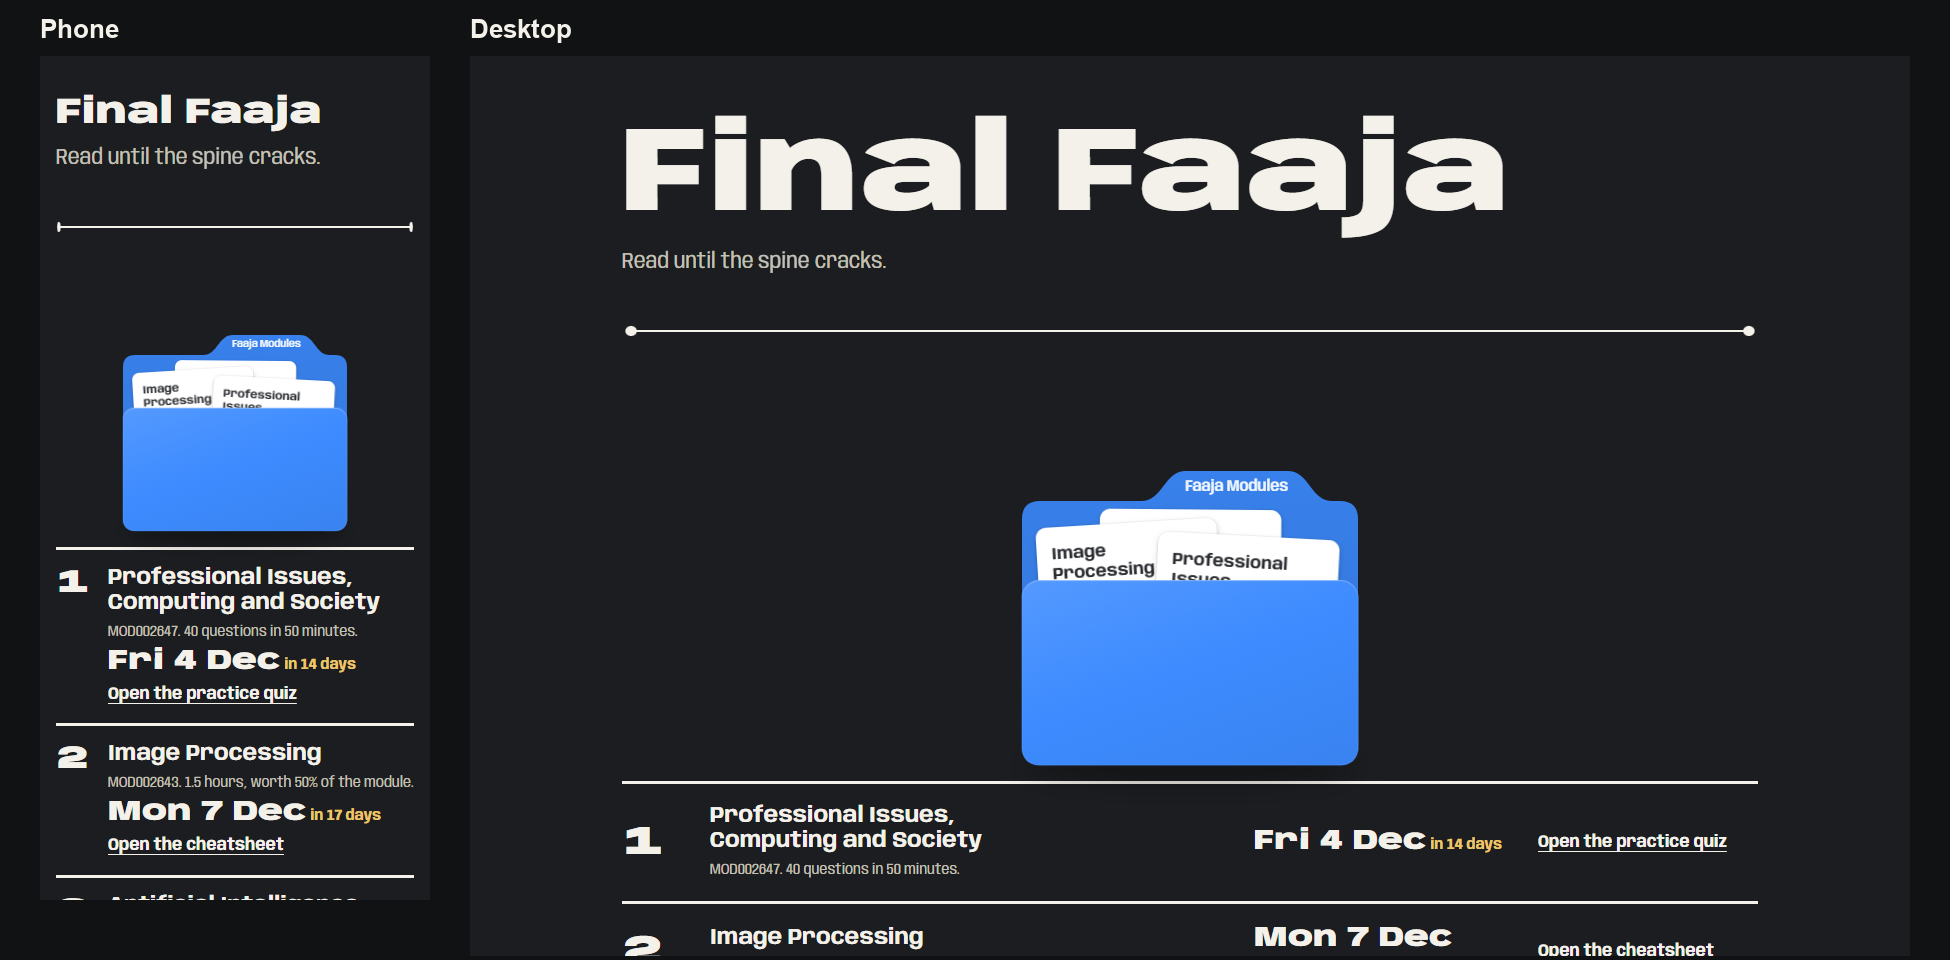
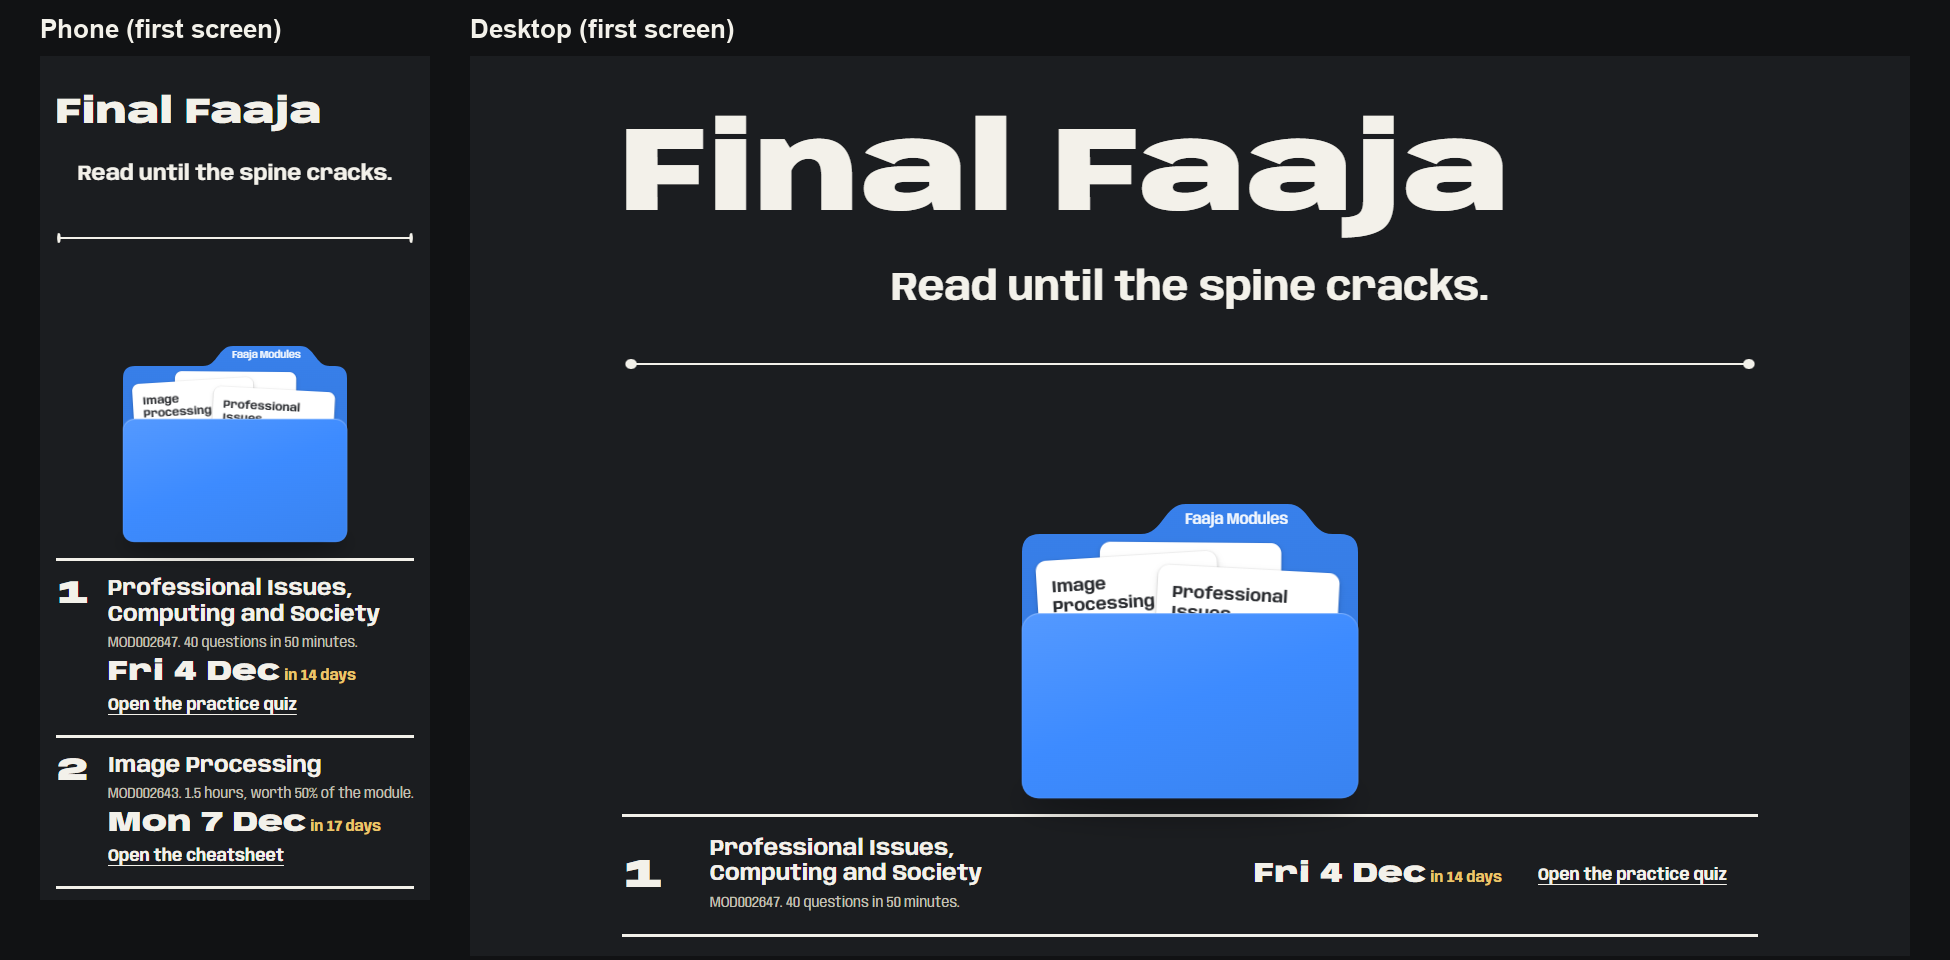
Tagline centred and larger; the whole line jitters in short bursts

diff --git a/index.html b/index.html
@@ -78,9 +78,9 @@ h2 { margin: 0; font-size: var(--t-l); line-height: 1.15; font-weight: 700; font
 footer { margin-top: 40px; font-size: var(--t-s); color: var(--ink-2); }
 footer a { color: var(--ink); text-underline-offset: 3px; }
 footer a:focus-visible { outline: 3px solid var(--focus); outline-offset: 2px; }
-.gloss { font-size: 1.375rem; }
-.jit { display: inline-block; animation: jit 3.2s infinite steps(1, end); }
-@keyframes jit { 0%, 86%, 100% { transform: none; } 88% { transform: translate(1px, -1px) rotate(-1.5deg); } 90% { transform: translate(-1px, 1px) rotate(1deg); } 92% { transform: translate(1px, 0) rotate(-1deg); } 94% { transform: translate(-1px, 0); } }
+.gloss.jit { display: block; max-width: none; margin: 32px auto 0; text-align: center; color: var(--ink); font-size: clamp(1.25rem, 5.4vw, 2.5rem); font-weight: 700; font-stretch: 100%; text-wrap: balance; line-height: 1.15; }
+.jit { animation: jit 3.2s infinite steps(1, end); }
+@keyframes jit { 0%, 86%, 100% { transform: none; } 88% { transform: translate(1px, -1px) rotate(-0.3deg); } 90% { transform: translate(-1px, 1px) rotate(0.25deg); } 92% { transform: translate(1px, 0) rotate(-0.2deg); } 94% { transform: translate(-1px, 0); } }
 @media (prefers-reduced-motion: reduce) { .jit { animation: none; } }
 </style>
 </head>
@@ -88,7 +88,7 @@ footer a:focus-visible { outline: 3px solid var(--focus); outline-offset: 2px; }
 <main class="wrap">
   <header>
     <h1>Final Faaja</h1>
-    <p class="gloss">Read until the <span class="jit">spine</span> cracks.</p>
+    <p class="gloss jit">Read until the spine cracks.</p>
     <svg class="string" viewBox="0 0 1000 72" preserveAspectRatio="none" aria-hidden="true" focusable="false">
       <path d="M8 36 Q500 36 992 36"/>
       <circle cx="8" cy="36" r="5"/><circle cx="992" cy="36" r="5"/>
